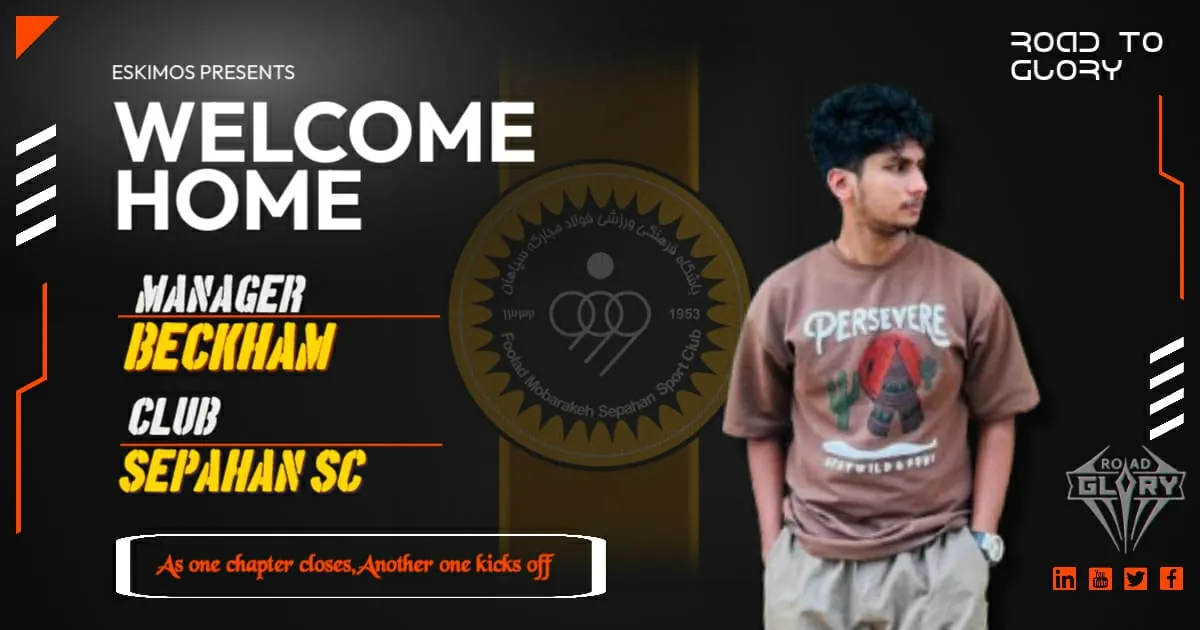
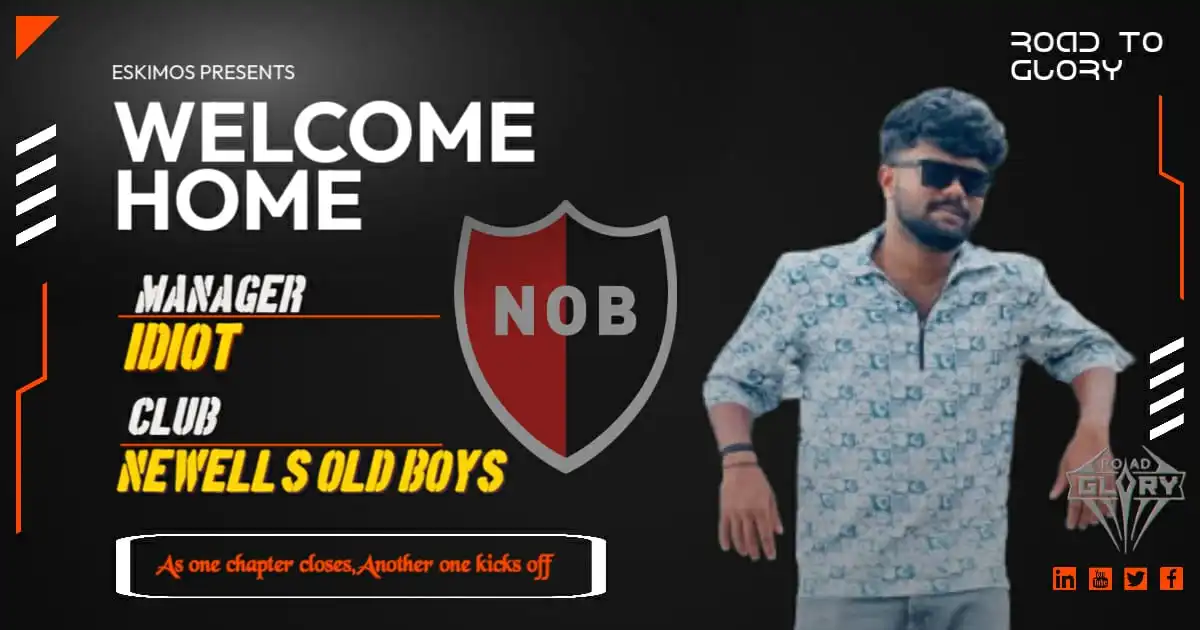
aa

Changed region(s): [[0.0925, 0.1206, 0.9558, 1.0], [0.0925, 0.5127, 0.3083, 0.6032], [0.6783, 0.1508, 0.7092, 0.181]]

diff --git a/registered-clubs.html b/registered-clubs.html
@@ -441,183 +441,205 @@
 
             <div class="club-gallery">
                 <ul class="moze-gallery pictures">
-                    <li data-name="Arsenal FC" data-manager="Mikel Arteta">
+                    <li data-name="Arsenal" data-manager="Fayis">
                         <div class="club-number">1</div>
-                        <img src="assets/images/managers/p1.webp" alt="Arsenal FC" width="300" height="200">
+                        <img src="assets/images/managers/p1.webp" alt="Arsenal" width="300" height="200">
                         <a class="moze-gallery-overlay">
-                            <div class="title"><span>Arsenal FC</span></div>
+                            <div class="title"><span>Arsenal</span></div>
                         </a>
-                        <div class="manager-name">Manager: Mikel Arteta</div>
+                        <div class="manager-name">Manager: Fayis</div>
                     </li>
-                    <li data-name="Liverpool FC" data-manager="Jürgen Klopp">
+                    <li data-name="Al Nassar" data-manager="DKM">
+                        <div class="club-number">2</div>
+                        <img src="assets/images/managers/p2.webp" alt="Al Nassar" width="300" height="200">
+                        <a class="moze-gallery-overlay">
+                            <div class="title"><span>Al Nassar</span></div>
+                        </a>
+                        <div class="manager-name">Manager: DKM</div>
+                    </li>
+                    <li data-name="Real Madrid" data-manager="Shadow 4a">
                         <div class="club-number">3</div>
-                        <img src="assets/images/managers/p3.webp" alt="Liverpool FC" width="300" height="200">
+                        <img src="assets/images/managers/p3.webp" alt="Real Madrid" width="300" height="200">
                         <a class="moze-gallery-overlay">
-                            <div class="title"><span>Liverpool FC</span></div>
+                            <div class="title"><span>Real Madrid</span></div>
                         </a>
-                        <div class="manager-name">Manager: Jürgen Klopp</div>
+                        <div class="manager-name">Manager: Shadow 4a</div>
                     </li>
-                    <li data-name="Chelsea FC" data-manager="Mauricio Pochettino">
+                    <li data-name="AC Milan" data-manager="Mubashir">
                         <div class="club-number">4</div>
-                        <img src="assets/images/managers/p4.webp" alt="Chelsea FC" width="300" height="200">
+                        <img src="assets/images/managers/p4.webp" alt="AC Milan" width="300" height="200">
                         <a class="moze-gallery-overlay">
-                            <div class="title"><span>Chelsea FC</span></div>
+                            <div class="title"><span>AC Milan</span></div>
                         </a>
-                        <div class="manager-name">Manager: Mauricio Pochettino</div>
+                        <div class="manager-name">Manager: Mubashir</div>
                     </li>
-                    <li data-name="Manchester City">
+                    <li data-name="Brighton" data-manager="Abu">
                         <div class="club-number">5</div>
-                        <img src="assets/images/managers/p5.webp" alt="Manchester City" width="300" height="200">
+                        <img src="assets/images/managers/p5.webp" alt="Brighton" width="300" height="200">
+                        <a class="moze-gallery-overlay">
+                            <div class="title"><span>Brighton</span></div>
+                        </a>
+                        <div class="manager-name">Manager: Abu</div>
+                    </li>
+                    <li data-name="LOSC Lille" data-manager="Fazi">
+                        <div class="club-number">6</div>
+                        <img src="assets/images/managers/p6.webp" alt="LOSC Lille" width="300" height="200">
+                        <a class="moze-gallery-overlay">
+                            <div class="title"><span>LOSC Lille</span></div>
+                        </a>
+                        <div class="manager-name">Manager: Fazi</div>
+                    </li>
+                    <li data-name="Borussia Dortmund" data-manager="Fayaz">
+                        <div class="club-number">7</div>
+                        <img src="assets/images/managers/p7.webp" alt="Borussia Dortmund" width="300" height="200">
+                        <a class="moze-gallery-overlay">
+                            <div class="title"><span>Borussia Dortmund</span></div>
+                        </a>
+                        <div class="manager-name">Manager: Fayaz</div>
+                    </li>
+                    <li data-name="Atletico Madrid" data-manager="Sainu">
+                        <div class="club-number">8</div>
+                        <img src="assets/images/managers/p8.webp" alt="Atletico Madrid" width="300" height="200">
+                        <a class="moze-gallery-overlay">
+                            <div class="title"><span>Atletico Madrid</span></div>
+                        </a>
+                        <div class="manager-name">Manager: Sainu</div>
+                    </li>
+                    <li data-name="Sepahan SC" data-manager="Siraj">
+                        <div class="club-number">9</div>
+                        <img src="assets/images/managers/p9.webp" alt="Sepahan SC" width="300" height="200">
+                        <a class="moze-gallery-overlay">
+                            <div class="title"><span>Sepahan SC</span></div>
+                        </a>
+                        <div class="manager-name">Manager: Siraj</div>
+                    </li>
+                    <li data-name="Manchester City" data-manager="Afsal">
+                        <div class="club-number">10</div>
+                        <img src="assets/images/managers/p10.webp" alt="Manchester City" width="300" height="200">
                         <a class="moze-gallery-overlay">
                             <div class="title"><span>Manchester City</span></div>
                         </a>
+                        <div class="manager-name">Manager: Afsal</div>
                     </li>
-                    <li data-name="Everton FC">
-                        <div class="club-number">7</div>
-                        <img src="assets/images/managers/p7.webp" alt="Everton FC" width="300" height="200">
+                    <li data-name="Excelsior" data-manager="Iemxsin">
+                        <div class="club-number">11</div>
+                        <img src="assets/images/managers/p11.webp" alt="Excelsior" width="300" height="200">
+                        <a class="moze-gallery-overlay">
+                            <div class="title"><span>Excelsior</span></div>
+                        </a>
+                        <div class="manager-name">Manager: Iemxsin</div>
+                    </li>
+                    <li data-name="Newcastle United" data-manager="Adith">
+                        <div class="club-number">12</div>
+                        <img src="assets/images/managers/p12.webp" alt="Newcastle United" width="300" height="200">
+                        <a class="moze-gallery-overlay">
+                            <div class="title"><span>Newcastle United</span></div>
+                        </a>
+                        <div class="manager-name">Manager: Adith</div>
+                    </li>
+                    <li data-name="Tottenham Hotspur" data-manager="Nabeel">
+                        <div class="club-number">13</div>
+                        <img src="assets/images/managers/p13.webp" alt="Tottenham Hotspur" width="300" height="200">
+                        <a class="moze-gallery-overlay">
+                            <div class="title"><span>Tottenham Hotspur</span></div>
+                        </a>
+                        <div class="manager-name">Manager: Nabeel</div>
+                    </li>
+                    <li data-name="Wolves" data-manager="Akshaylal">
+                        <div class="club-number">14</div>
+                        <img src="assets/images/managers/p14.webp" alt="Wolves" width="300" height="200">
+                        <a class="moze-gallery-overlay">
+                            <div class="title"><span>Wolves</span></div>
+                        </a>
+                        <div class="manager-name">Manager: Akshaylal</div>
+                    </li>
+                    <li data-name="Santos FC" data-manager="Rohith">
+                        <div class="club-number">15</div>
+                        <img src="assets/images/managers/p15.webp" alt="Santos FC" width="300" height="200">
+                        <a class="moze-gallery-overlay">
+                            <div class="title"><span>Santos FC</span></div>
+                        </a>
+                        <div class="manager-name">Manager: Rohith</div>
+                    </li>
+                    <li data-name="SS Lazio" data-manager="Shahanab">
+                        <div class="club-number">16</div>
+                        <img src="assets/images/managers/p16.webp" alt="SS Lazio" width="300" height="200">
+                        <a class="moze-gallery-overlay">
+                            <div class="title"><span>SS Lazio</span></div>
+                        </a>
+                        <div class="manager-name">Manager: Shahanab</div>
+                    </li>
+                    <li data-name="FSV Mainz 05" data-manager="Fasal">
+                        <div class="club-number">17</div>
+                        <img src="assets/images/managers/p17.webp" alt="FSV Mainz 05" width="300" height="200">
+                        <a class="moze-gallery-overlay">
+                            <div class="title"><span>FSV Mainz 05</span></div>
+                        </a>
+                        <div class="manager-name">Manager: Fasal</div>
+                    </li>
+                    <li data-name="Leverkusen" data-manager="Shamil">
+                        <div class="club-number">18</div>
+                        <img src="assets/images/managers/p18.webp" alt="Leverkusen" width="300" height="200">
+                        <a class="moze-gallery-overlay">
+                            <div class="title"><span>Leverkusen</span></div>
+                        </a>
+                        <div class="manager-name">Manager: Shamil</div>
+                    </li>
+                    <li data-name="Newells Old Boys" data-manager="Idiot">
+                        <div class="club-number">19</div>
+                        <img src="assets/images/managers/p19.webp" alt="Newells Old Boys" width="300" height="200">
+                        <a class="moze-gallery-overlay">
+                            <div class="title"><span>Newells Old Boys</span></div>
+                        </a>
+                        <div class="manager-name">Manager: Idiot</div>
+                    </li>
+                    <li data-name="SSC Napoli" data-manager="Shamil">
+                        <div class="club-number">20</div>
+                        <img src="assets/images/managers/p20.webp" alt="SSC Napoli" width="300" height="200">
+                        <a class="moze-gallery-overlay">
+                            <div class="title"><span>SSC Napoli</span></div>
+                        </a>
+                        <div class="manager-name">Manager: Shamil</div>
+                    </li>
+                    <li data-name="Al Ahli FC" data-manager="Majee">
+                        <div class="club-number">21</div>
+                        <img src="assets/images/managers/p21.webp" alt="Al Ahli FC" width="300" height="200">
+                        <a class="moze-gallery-overlay">
+                            <div class="title"><span>Al Ahli FC</span></div>
+                        </a>
+                        <div class="manager-name">Manager: Majee</div>
+                    </li>
+                    <li data-name="FC Barcelona" data-manager="Adil">
+                        <div class="club-number">22</div>
+                        <img src="assets/images/managers/p22.webp" alt="FC Barcelona" width="300" height="200">
+                        <a class="moze-gallery-overlay">
+                            <div class="title"><span>FC Barcelona</span></div>
+                        </a>
+                        <div class="manager-name">Manager: Adil</div>
+                    </li>
+                    <li data-name="Villarreal CF" data-manager="Fajas">
+                        <div class="club-number">23</div>
+                        <img src="assets/images/managers/p23.webp" alt="Villarreal CF" width="300" height="200">
+                        <a class="moze-gallery-overlay">
+                            <div class="title"><span>Villarreal CF</span></div>
+                        </a>
+                        <div class="manager-name">Manager: Fajas</div>
+                    </li>
+                    <li data-name="CR Flamengo" data-manager="Haadi">
+                        <div class="club-number">24</div>
+                        <img src="assets/images/managers/p24.webp" alt="CR Flamengo" width="300" height="200">
+                        <a class="moze-gallery-overlay">
+                            <div class="title"><span>CR Flamengo</span></div>
+                        </a>
+                        <div class="manager-name">Manager: Haadi</div>
+                    </li>
+                    <li data-name="Everton FC" data-manager="Daveen">
+                        <div class="club-number">25</div>
+                        <img src="assets/images/managers/p25.webp" alt="Everton FC" width="300" height="200">
                         <a class="moze-gallery-overlay">
                             <div class="title"><span>Everton FC</span></div>
                         </a>
-                    </li>
-                    <li data-name="Crystal Palace">
-                        <div class="club-number">14</div>
-                        <img src="assets/images/managers/p14.webp" alt="Crystal Palace" width="300" height="200">
-                        <a class="moze-gallery-overlay">
-                            <div class="title"><span>Crystal Palace</span></div>
-                        </a>
-                    </li>
-                    <li data-name="Leeds United">
-                        <div class="club-number">15</div>
-                        <img src="assets/images/managers/p15.webp" alt="Leeds United" width="300" height="200">
-                        <a class="moze-gallery-overlay">
-                            <div class="title"><span>Leeds United</span></div>
-                        </a>
-                    </li>
-                    <li data-name="West Bromwich Albion">
-                        <div class="club-number">19</div>
-                        <img src="assets/images/managers/p19.webp" alt="West Bromwich Albion" width="300" height="200">
-                        <a class="moze-gallery-overlay">
-                            <div class="title"><span>West Bromwich Albion</span></div>
-                        </a>
-                    </li>
-                    <li data-name="Norwich City">
-                        <div class="club-number">23</div>
-                        <img src="assets/images/managers/p23.webp" alt="Norwich City" width="300" height="200">
-                        <a class="moze-gallery-overlay">
-                            <div class="title"><span>Norwich City</span></div>
-                        </a>
-                    </li>
-                    <li data-name="Brentford FC">
-                        <div class="club-number">24</div>
-                        <img src="assets/images/managers/p24.webp" alt="Brentford FC" width="300" height="200">
-                        <a class="moze-gallery-overlay">
-                            <div class="title"><span>Brentford FC</span></div>
-                        </a>
-                    </li>
-                    <li data-name="Nottingham Forest">
-                        <div class="club-number">25</div>
-                        <img src="assets/images/managers/p25.webp" alt="Nottingham Forest" width="300" height="200">
-                        <a class="moze-gallery-overlay">
-                            <div class="title"><span>Nottingham Forest</span></div>
-                        </a>
-                    </li>
-                    <li data-name="Stoke City">
-                        <div class="club-number">26</div>
-                        <img src="assets/images/managers/p26.webp" alt="Stoke City" width="300" height="200">
-                        <a class="moze-gallery-overlay">
-                            <div class="title"><span>Stoke City</span></div>
-                        </a>
-                    </li>
-                    <li data-name="Swansea City">
-                        <div class="club-number">27</div>
-                        <img src="assets/images/managers/p27.webp" alt="Swansea City" width="300" height="200">
-                        <a class="moze-gallery-overlay">
-                            <div class="title"><span>Swansea City</span></div>
-                        </a>
-                    </li>
-                    <li data-name="Middlesbrough FC">
-                        <div class="club-number">28</div>
-                        <img src="assets/images/managers/p28.webp" alt="Middlesbrough FC" width="300" height="200">
-                        <a class="moze-gallery-overlay">
-                            <div class="title"><span>Middlesbrough FC</span></div>
-                        </a>
-                    </li>
-                    <li data-name="Cardiff City">
-                        <div class="club-number">30</div>
-                        <img src="assets/images/managers/p30.webp" alt="Cardiff City" width="300" height="200">
-                        <a class="moze-gallery-overlay">
-                            <div class="title"><span>Cardiff City</span></div>
-                        </a>
-                    </li>
-                    <li data-name="Preston North End">
-                        <div class="club-number">34</div>
-                        <img src="assets/images/managers/p34.webp" alt="Preston North End" width="300" height="200">
-                        <a class="moze-gallery-overlay">
-                            <div class="title"><span>Preston North End</span></div>
-                        </a>
-                    </li>
-                    <li data-name="Bristol City">
-                        <div class="club-number">38</div>
-                        <img src="assets/images/managers/p38.webp" alt="Bristol City" width="300" height="200">
-                        <a class="moze-gallery-overlay">
-                            <div class="title"><span>Bristol City</span></div>
-                        </a>
-                    </li>
-                    <li data-name="Sunderland AFC">
-                        <div class="club-number">41</div>
-                        <img src="assets/images/managers/p41.webp" alt="Sunderland AFC" width="300" height="200">
-                        <a class="moze-gallery-overlay">
-                            <div class="title"><span>Sunderland AFC</span></div>
-                        </a>
-                    </li>
-                    <li data-name="Fulham FC">
-                        <div class="club-number">42</div>
-                        <img src="assets/images/managers/p42.webp" alt="Fulham FC" width="300" height="200">
-                        <a class="moze-gallery-overlay">
-                            <div class="title"><span>Fulham FC</span></div>
-                        </a>
-                    </li>
-                    <li data-name="Wigan Athletic">
-                        <div class="club-number">49</div>
-                        <img src="assets/images/managers/p49.webp" alt="Wigan Athletic" width="300" height="200">
-                        <a class="moze-gallery-overlay">
-                            <div class="title"><span>Wigan Athletic</span></div>
-                        </a>
-                    </li>
-                    <li data-name="Norwich City">
-                        <div class="club-number">53</div>
-                        <img src="assets/images/managers/p54.webp" alt="Norwich City" width="300" height="200">
-                        <a class="moze-gallery-overlay">
-                            <div class="title"><span>Norwich City</span></div>
-                        </a>
-                    </li>
-                    <li data-name="Norwich City">
-                        <div class="club-number">56</div>
-                        <img src="assets/images/managers/p57.webp" alt="Norwich City" width="300" height="200">
-                        <a class="moze-gallery-overlay">
-                            <div class="title"><span>Norwich City</span></div>
-                        </a>
-                    </li>
-                    <li data-name="Norwich City">
-                        <div class="club-number">57</div>
-                        <img src="assets/images/managers/p58.webp" alt="Norwich City" width="300" height="200">
-                        <a class="moze-gallery-overlay">
-                            <div class="title"><span>Norwich City</span></div>
-                        </a>
-                    </li>
-                    <li data-name="Norwich City">
-                        <div class="club-number">58</div>
-                        <img src="assets/images/managers/p59.webp" alt="Norwich City" width="300" height="200">
-                        <a class="moze-gallery-overlay">
-                            <div class="title"><span>Norwich City</span></div>
-                        </a>
-                    </li>
-                    <li data-name="Manchester City">
-                        <div class="club-number">6</div>
-                        <img src="assets/images/managers/p6.webp" alt="Manchester City" width="300" height="200">
-                        <a class="moze-gallery-overlay">
-                            <div class="title"><span>Manchester City</span></div>
-                        </a>
+                        <div class="manager-name">Manager: Daveen</div>
                     </li>
                 </ul>
             </div>
